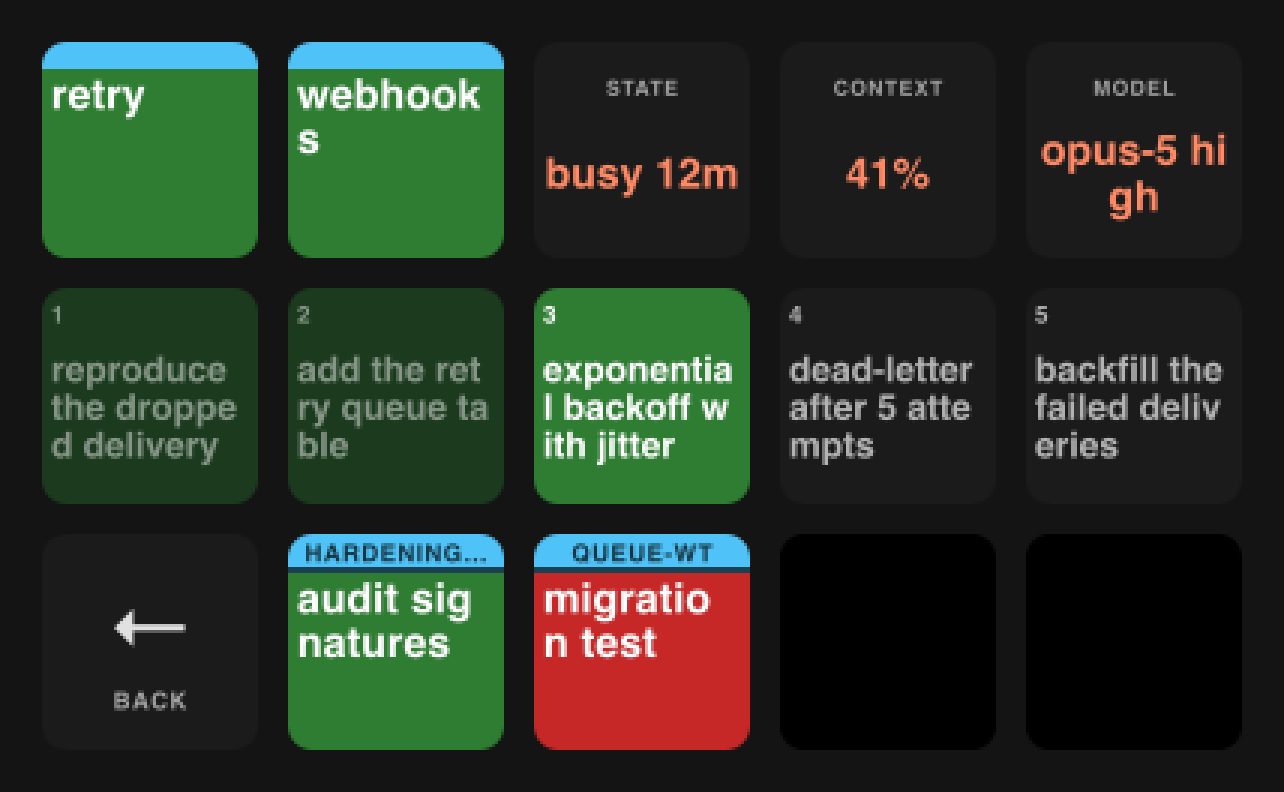
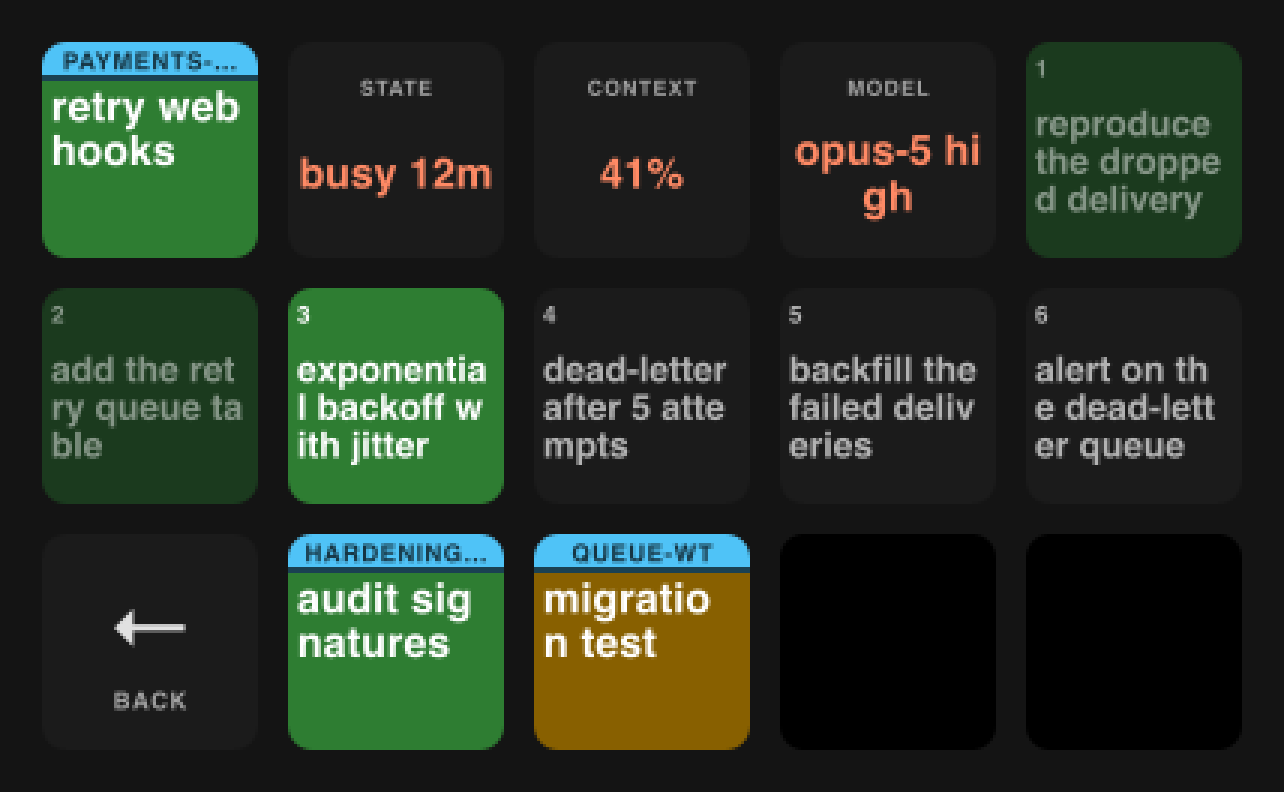
fix: the detail board's title is one key, like the key you pressed (#6)
It was split across two, which said the same thing twice and cost a task
slot. The header tile now takes keyFields verbatim, caps bar included, so
the key you press and the key you land on are the same key.

splitLabel had no other caller and is gone with it.

diff --git a/CLAUDE.md b/CLAUDE.md
@@ -138,7 +138,10 @@ button press → index.mjs → vscode-state.mjs (already-open file) → `open -a
   session key (see the repeat-press rule below) opens `refreshDetail`, which
   takes over **all 15 keys** — usage and attention included, unlike every other
   board, which draws only the 13 session keys. `detailLayout` lays out a
-  two-key title, STATE/CONTEXT/MODEL stat tiles (CONTEXT passes `pie` to
+  the session's own key again — same label, same caps bar, `keyFields` verbatim,
+  so the key you pressed is the key you land on; it was split across two keys
+  first, which said the same thing twice and cost a task slot —
+  STATE/CONTEXT/MODEL stat tiles (CONTEXT passes `pie` to
   `renderStat`, which draws a ring in `usageColor` instead of the value text —
   the number keeps the hole but drops its `%`, which is what the ring says and
   what stops "100" fitting), then that session's task list
